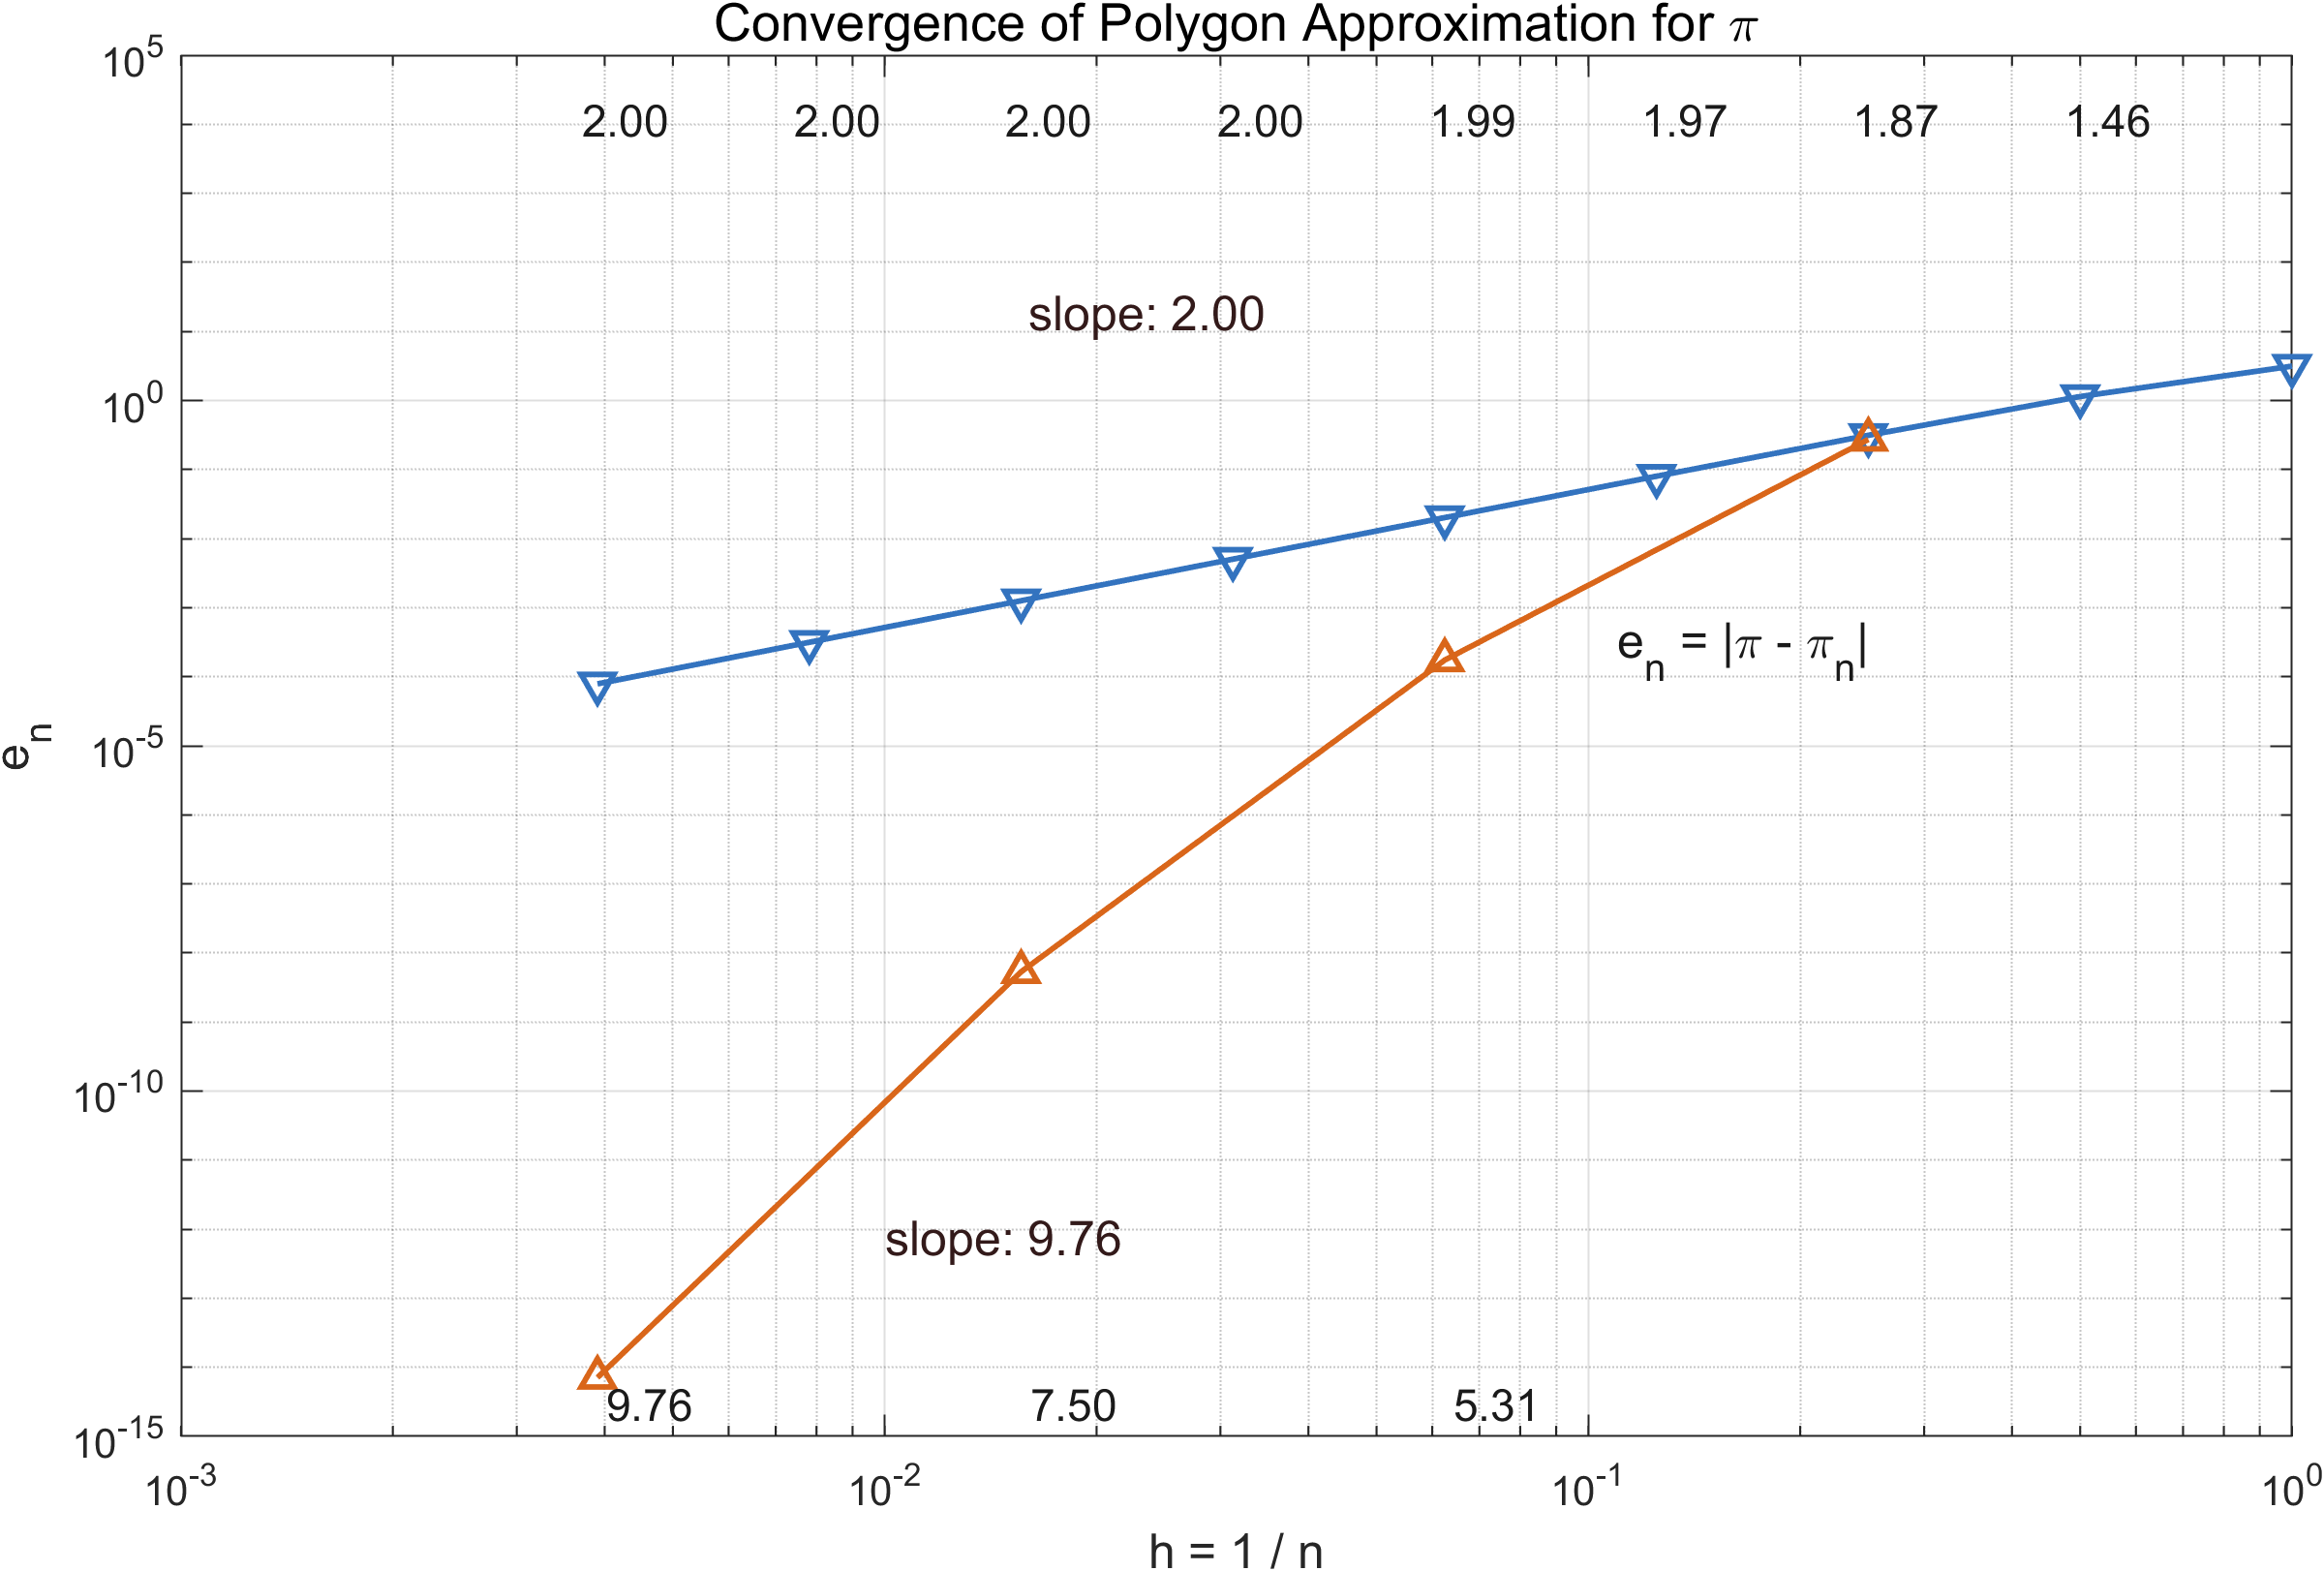
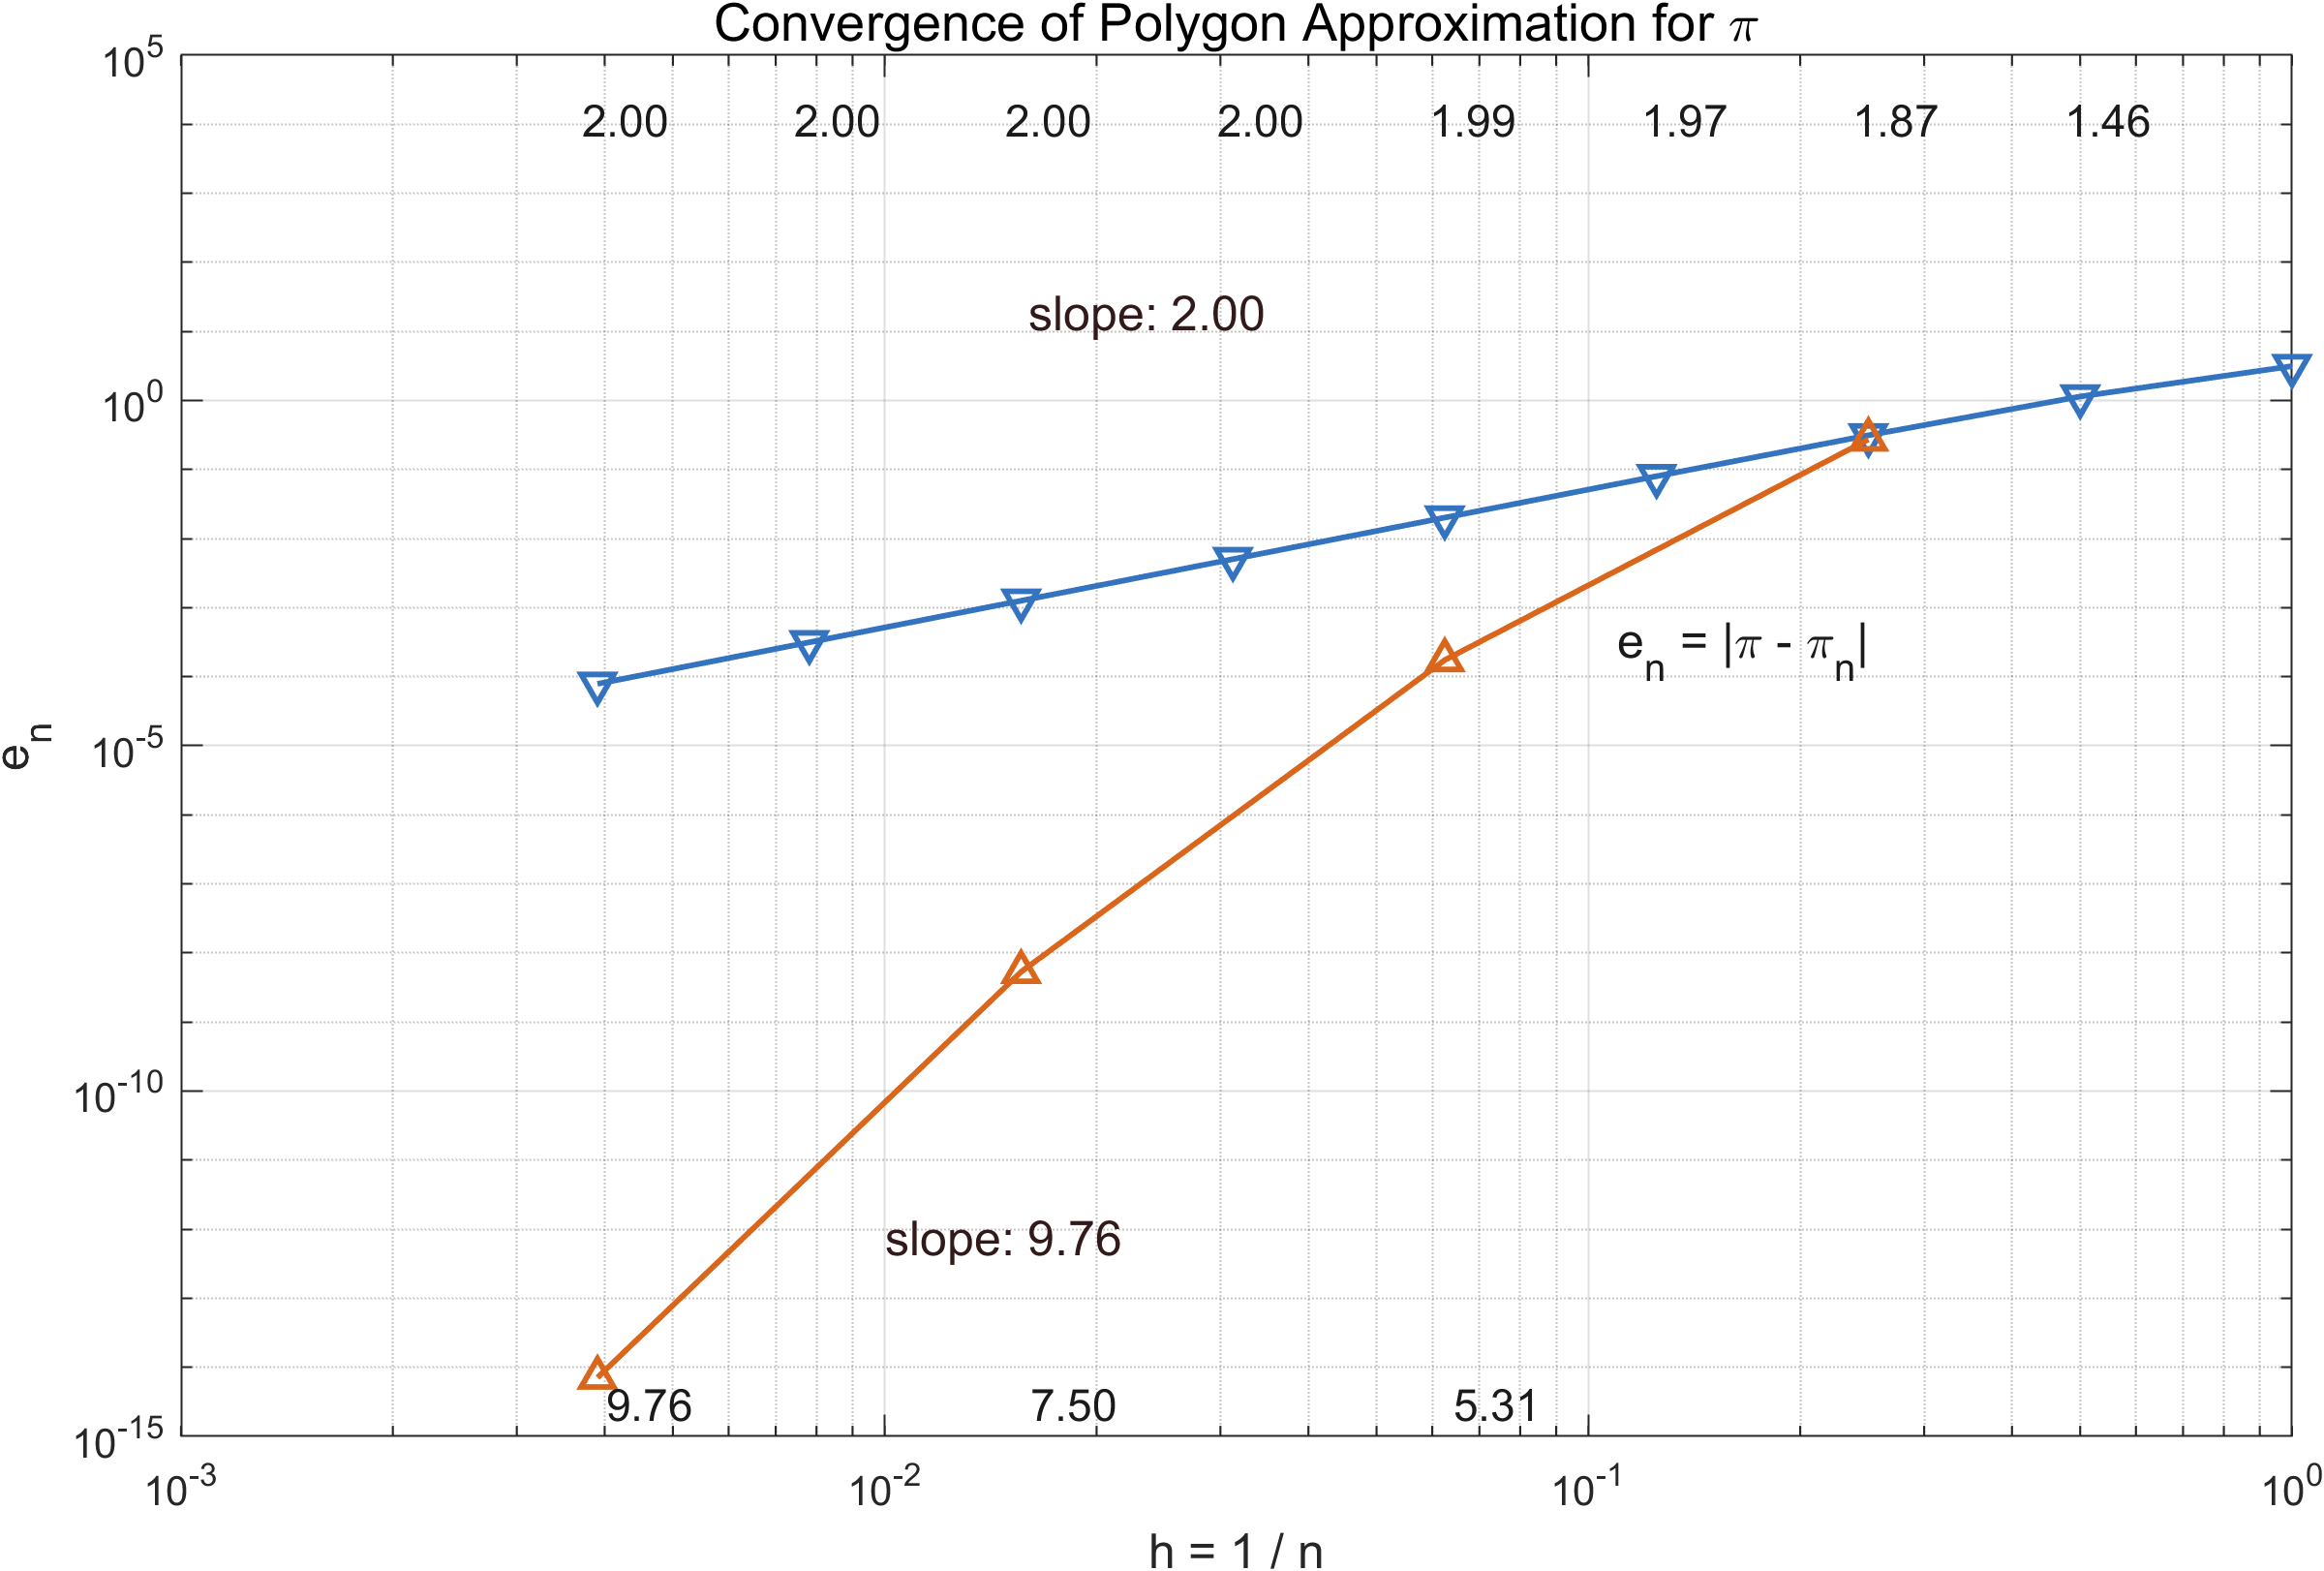
新增20260526三维桁架作业；更新20260519文件

diff --git a/20260526/truss3d_element_matrix_properties.m b/20260526/truss3d_element_matrix_properties.m
@@ -1,0 +1,86 @@
+function report = truss3d_element_matrix_properties(Ke, x1, x2)
+%TRUSS3D_ELEMENT_MATRIX_PROPERTIES 检验单元刚度矩阵的基本性质。
+%   检查内容：
+%   1. 对称性
+%   2. 奇异性
+%   3. 半正定性
+%   4. 零能模态是否只由刚体模态构成
+
+    validateattributes(Ke, {'numeric'}, {'real', 'size', [6, 6]}, mfilename, 'Ke');
+    x1 = validate_coordinate(x1, 'x1');
+    x2 = validate_coordinate(x2, 'x2');
+
+    delta = x2 - x1;
+    L = norm(delta);
+    if L == 0
+        error('两个节点坐标不能重合。');
+    end
+
+    n = delta / L;
+    Ke_sym = 0.5 * (Ke + Ke.');
+
+    % 用矩阵范数衡量对称误差
+    symmetry_tol = 1.0e-10 * max(1, norm(Ke, 'fro'));
+    symmetry_error = norm(Ke - Ke.', 'fro');
+    is_symmetric = symmetry_error <= symmetry_tol;
+
+    % 用特征值判断半正定性与奇异性
+    eigenvalues = sort(real(eig(Ke_sym)), 'ascend');
+    eigen_tol = 1.0e-10 * max(1, max(abs(eigenvalues)));
+    matrix_rank = rank(Ke_sym, eigen_tol);
+    nullity = size(Ke_sym, 1) - matrix_rank;
+    is_singular = matrix_rank < size(Ke_sym, 1);
+    is_positive_semidefinite = min(eigenvalues) >= -eigen_tol;
+
+    % 构造 3 个平移刚体模态与 2 个转动刚体模态
+    [perp1, perp2] = build_perpendicular_basis(n);
+    rigid_modes = [ ...
+        1, 0, 0, 0,        0; ...
+        0, 1, 0, 0,        0; ...
+        0, 0, 1, 0,        0; ...
+        1, 0, 0, perp1(1), perp2(1); ...
+        0, 1, 0, perp1(2), perp2(2); ...
+        0, 0, 1, perp1(3), perp2(3)];
+
+    rigid_mode_rank = rank(rigid_modes, eigen_tol);
+    rigid_mode_residual = norm(Ke_sym * rigid_modes, 'fro');
+    rigid_tol = 1.0e-10 * max(1, norm(Ke_sym, 'fro')) * norm(rigid_modes, 'fro');
+
+    % 若零空间维数为 5，且这 5 个刚体模态都在零空间内，则零能模态仅为刚体模态
+    is_rigid_body_only_zero_mode = ...
+        (rigid_mode_rank == 5) && ...
+        (nullity == 5) && ...
+        (rigid_mode_residual <= rigid_tol);
+
+    report = struct( ...
+        'is_symmetric', is_symmetric, ...
+        'symmetry_error', symmetry_error, ...
+        'symmetry_tolerance', symmetry_tol, ...
+        'is_singular', is_singular, ...
+        'matrix_rank', matrix_rank, ...
+        'nullity', nullity, ...
+        'is_positive_semidefinite', is_positive_semidefinite, ...
+        'min_eigenvalue', min(eigenvalues), ...
+        'eigenvalues', eigenvalues, ...
+        'rigid_mode_rank', rigid_mode_rank, ...
+        'rigid_mode_residual', rigid_mode_residual, ...
+        'rigid_mode_tolerance', rigid_tol, ...
+        'is_rigid_body_only_zero_mode', is_rigid_body_only_zero_mode);
+end
+
+function [perp1, perp2] = build_perpendicular_basis(n)
+% 选取两个与单元轴线垂直的单位向量，用于构造转动刚体模态
+    [~, index] = min(abs(n));
+    ref = zeros(3, 1);
+    ref(index) = 1;
+
+    perp1 = cross(n, ref);
+    perp1 = perp1 / norm(perp1);
+    perp2 = cross(n, perp1);
+    perp2 = perp2 / norm(perp2);
+end
+
+function x = validate_coordinate(x, name)
+    validateattributes(x, {'numeric'}, {'real', 'vector', 'numel', 3}, mfilename, name);
+    x = x(:);
+end

diff --git a/20260526/run_homework_examples.m b/20260526/run_homework_examples.m
@@ -1,0 +1,50 @@
+clc;
+clear;
+
+fprintf('三维桁架单元作业算例\n\n');
+
+run_case('算例 1', [0, 0, 0], [2, 0, 0], 200e9, 1.0e-4, [0; 0; 0; 1.0e-3; 0; 0]);
+fprintf('\n');
+run_case('算例 2', [0, 0, 0], [1, 2, 2], 210e9, 2.0e-4, [0; 0; 0; 1.0e-3; 2.0e-3; 2.0e-3]);
+
+function run_case(case_name, x1, x2, E, A, de)
+% 统一执行单个算例，避免重复代码
+    fprintf('%s\n', case_name);
+
+    [L, direction_cosines, Ke] = truss3d_element_stiffness(x1, x2, E, A);
+    [epsilon, sigma, N] = truss3d_element_stress(x1, x2, E, A, de);
+    Fe = Ke * de;
+
+    % 任务 4：检验单元刚度矩阵性质
+    report = truss3d_element_matrix_properties(Ke, x1, x2);
+
+    fprintf('L = %.6g m\n', L);
+    fprintf('方向余弦 = [%.6g, %.6g, %.6g]\n', direction_cosines);
+    fprintf('Ke =\n');
+    disp(Ke);
+    fprintf('epsilon = %.6g\n', epsilon);
+    fprintf('sigma = %.6g Pa\n', sigma);
+    fprintf('N = %.6g N\n', N);
+    fprintf('Fe =\n');
+    disp(Fe);
+
+    print_property_report(report);
+end
+
+function print_property_report(report)
+% 输出任务 4 的检验结果
+    fprintf('矩阵性质检查：\n');
+    fprintf('1. 对称性：%s（误差 = %.3e）\n', tf_text(report.is_symmetric), report.symmetry_error);
+    fprintf('2. 奇异性：%s（rank = %d, nullity = %d）\n', tf_text(report.is_singular), report.matrix_rank, report.nullity);
+    fprintf('3. 半正定性：%s（最小特征值 = %.3e）\n', tf_text(report.is_positive_semidefinite), report.min_eigenvalue);
+    fprintf('4. 零能模态仅为刚体模态：%s（刚体模态残差 = %.3e）\n', ...
+        tf_text(report.is_rigid_body_only_zero_mode), report.rigid_mode_residual);
+end
+
+function text = tf_text(flag)
+    if flag
+        text = '满足';
+    else
+        text = '不满足';
+    end
+end

diff --git a/20260526/truss3d_element_stress.m b/20260526/truss3d_element_stress.m
@@ -1,0 +1,35 @@
+function [epsilon, sigma, N] = truss3d_element_stress(x1, x2, E, A, de)
+%TRUSS3D_ELEMENT_STRESS 计算三维桁架单元的应变、应力和轴力。
+%   x1, x2: 节点坐标 [x, y, z]
+%   E: 弹性模量
+%   A: 截面面积
+%   de: 节点位移向量 [u1, v1, w1, u2, v2, w2]
+%   return: 轴向应变 epsilon、应力 sigma、轴力 N
+
+    x1 = validate_coordinate(x1, 'x1');
+    x2 = validate_coordinate(x2, 'x2');
+    validateattributes(E, {'numeric'}, {'real', 'scalar', 'positive'}, mfilename, 'E');
+    validateattributes(A, {'numeric'}, {'real', 'scalar', 'positive'}, mfilename, 'A');
+    validateattributes(de, {'numeric'}, {'real', 'vector', 'numel', 6}, mfilename, 'de');
+    de = de(:);
+
+    % 先由几何关系得到单元方向和长度
+    delta = x2 - x1;
+    L = norm(delta);
+    if L == 0
+        error('两个节点坐标不能重合。');
+    end
+
+    n = delta / L;
+
+    % B 矩阵给出轴向应变与节点位移之间的线性关系
+    B = (1 / L) * [-n.', n.'];
+    epsilon = B * de;
+    sigma = E * epsilon;
+    N = A * sigma;
+end
+
+function x = validate_coordinate(x, name)
+    validateattributes(x, {'numeric'}, {'real', 'vector', 'numel', 3}, mfilename, name);
+    x = x(:);
+end

diff --git a/20260526/truss3d_element_stiffness.m b/20260526/truss3d_element_stiffness.m
@@ -1,0 +1,31 @@
+function [L, direction_cosines, Ke] = truss3d_element_stiffness(x1, x2, E, A)
+%TRUSS3D_ELEMENT_STIFFNESS 计算三维桁架单元刚度矩阵。
+%   x1, x2: 节点坐标 [x, y, z]
+%   E: 弹性模量
+%   A: 截面面积
+%   return: 单元长度 L、方向余弦 [cx, cy, cz]、刚度矩阵 Ke
+
+    x1 = validate_coordinate(x1, 'x1');
+    x2 = validate_coordinate(x2, 'x2');
+    validateattributes(E, {'numeric'}, {'real', 'scalar', 'positive'}, mfilename, 'E');
+    validateattributes(A, {'numeric'}, {'real', 'scalar', 'positive'}, mfilename, 'A');
+
+    % 计算单元轴线方向与长度
+    delta = x2 - x1;
+    L = norm(delta);
+    if L == 0
+        error('两个节点坐标不能重合。');
+    end
+
+    n = delta / L;
+    direction_cosines = n.';
+
+    % n*n^T 为方向投影矩阵，对应全局坐标中的轴向刚度分配
+    projection = n * n.';
+    Ke = (E * A / L) * [projection, -projection; -projection, projection];
+end
+
+function x = validate_coordinate(x, name)
+    validateattributes(x, {'numeric'}, {'real', 'vector', 'numel', 3}, mfilename, name);
+    x = x(:);
+end

diff --git a/20260526/README.md b/20260526/README.md
@@ -1,0 +1,35 @@
+# 三维桁架单元作业说明
+
+## 文件说明
+
+- `truss3d_element_stiffness.m`：计算单元长度、方向余弦和刚度矩阵 `Ke`
+- `truss3d_element_stress.m`：计算应变 `epsilon`、应力 `sigma` 和轴力 `N`
+- `truss3d_element_matrix_properties.m`：检验单元刚度矩阵的对称性、奇异性、半正定性和刚体模态特性
+- `run_homework_examples.m`：运行作业要求的两个算例
+
+## 运行环境
+
+- MATLAB R2021b
+
+## 运行方法
+
+1. 打开 MATLAB。
+2. 将当前文件夹切换到本作业文件夹。
+3. 在命令行输入：
+
+```matlab
+run_homework_examples
+```
+
+## 输出内容
+
+脚本会输出两个规定算例的结果，包括：
+
+- 单元长度 `L`
+- 方向余弦
+- 刚度矩阵 `Ke`
+- 应变 `epsilon`
+- 应力 `sigma`
+- 轴力 `N`
+- 节点力向量 `Fe = Ke * de`
+- 单元刚度矩阵的性质检查结果